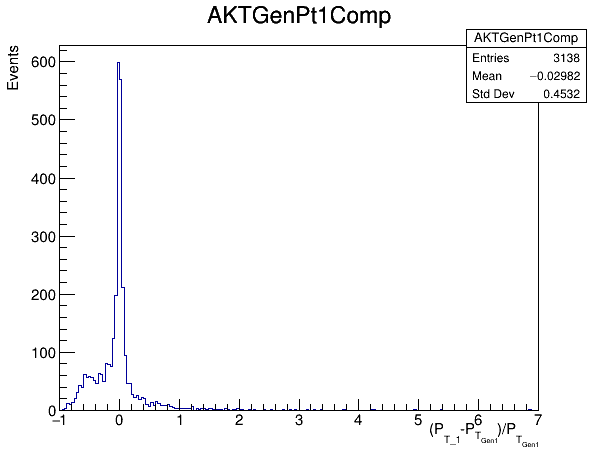
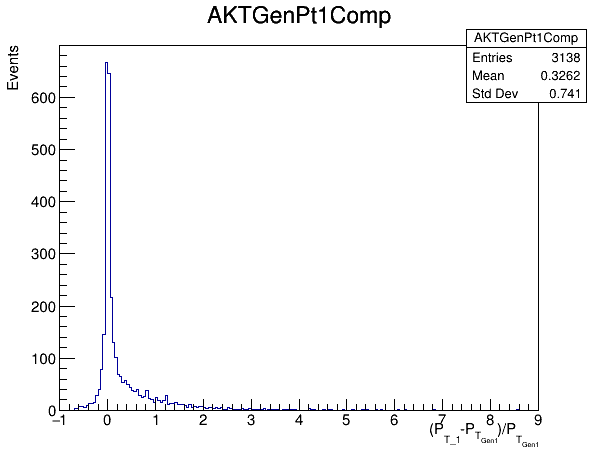
Updaye relosution info

diff --git a/Delphes/src/PairingDiHiggs.C b/Delphes/src/PairingDiHiggs.C
@@ -49,17 +49,17 @@ void PairingDiHiggs(const char *inputFile, const char *outputFile){
 
      Int_t nEntries = tree_sig->GetEntries();
 
-     TH1D *AKTjetMass1 = new TH1D("AKTjetMass1", "Anti_KTjet leading jets pair invariant mass", 200 , 0, 600); 
-     TH1D *AKTjetMass2 = new TH1D("AKTjetMass2", "Anti_KTjet sub-leading jets pair invariant mass", 200 , 0, 600); 
+     TH1D *AKTjetMass1 = new TH1D("AKTjetMass1", "Anti_KTjet leading jets pair invariant mass", 150 , 0, 400); 
+     TH1D *AKTjetMass2 = new TH1D("AKTjetMass2", "Anti_KTjet sub-leading jets pair invariant mass", 150 , 0, 400); 
      TH1D *GenAKTMass2 = new TH1D("GenAKTMass2", "GenAKTMass2", 100 , 0, 600); 
      TH1D *AKTGenMass1Comp = new TH1D("AKTGenMass1Comp", "AKTGenMass1Comp", 200 , -1, 2); 
      TH1D *AKTGenMass2Comp = new TH1D("AKTGenMass2Comp", "AKTGenMass2Comp", 200 , -1, 2); 
      TH1D *GenUncutMass2 = new TH1D("GenUncutMass2", "GenUncutMass2", 100 , 0, 600); 
  
-     TH1D *AKTGenPt1Comp = new TH1D("AKTGenPt1Comp", "AKTGenPt1Comp", 200 , -1, 7); 
-     TH1D *AKTGenPt2Comp = new TH1D("AKTGenPt2Comp", "AKTGenPt2Comp", 200 , -1, 2); 
-     TH1D *AKTGenPt3Comp = new TH1D("AKTGenPt3Comp", "AKTGenPt3Comp", 200 , -1, 16); 
-     TH1D *AKTGenPt4Comp = new TH1D("AKTGenPt4Comp", "AKTGenPt4Comp", 200 , -1, 17); 
+     TH1D *AKTGenPt1Comp = new TH1D("AKTGenPt1Comp", "AKTGenPt1Comp", 200 , -1, 9); 
+     TH1D *AKTGenPt2Comp = new TH1D("AKTGenPt2Comp", "AKTGenPt2Comp", 200 , -1, 9); 
+     TH1D *AKTGenPt3Comp = new TH1D("AKTGenPt3Comp", "AKTGenPt3Comp", 200 , -1, 9); 
+     TH1D *AKTGenPt4Comp = new TH1D("AKTGenPt4Comp", "AKTGenPt4Comp", 200 , -1, 2); 
 
      Double_t AKTjet1eta1;
      Double_t AKTjet1phi1;
@@ -374,23 +374,38 @@ void PairingDiHiggs(const char *inputFile, const char *outputFile){
 	     Genh2=GenJet3+GenJet4;
 	     GenJetMass = Genh2.Mag();
              Double_t AKTGenMass2diff = (AKTjetpair2Mass - GenJetMass)/GenJetMass;
-
-	     Double_t AKTGenPt1diff = (AKTjet1pt1 - Gen1pt)/Gen1pt;
-	     Double_t AKTGenPt2diff = (AKTjet1pt2 - Gen2pt)/Gen2pt;
-	     Double_t AKTGenPt3diff = (AKTjet2pt1 - Gen3pt)/Gen3pt;
-	     Double_t AKTGenPt4diff = (AKTjet2pt2 - Gen4pt)/Gen4pt;
+             
+	     Double_t AKTpt[] = { AKTjet1pt1, AKTjet1pt2, AKTjet2pt1, AKTjet2pt2 };
+	     int AKTsize = sizeof(AKTpt) / sizeof(AKTpt[0]);
+             
+	     Double_t Genpt[] = { Gen1pt, Gen2pt, Gen3pt, Gen4pt };
+	     int Gensize = sizeof(Genpt) / sizeof(Genpt[0]);
+              
+	     for (int i=0; i<4; i++) {
+	         for (int j=i+1; j<4; j++) {
+		     if (AKTpt[j] > AKTpt[i]) {
+                         swap(AKTpt[j], AKTpt[i]);
+			 swap(Genpt[j], Genpt[i]);
+		     }
+		 }
+	     }
+	     Double_t AKTGenPt1diff = (AKTpt[0] - Genpt[0])/Genpt[0];
+	     Double_t AKTGenPt2diff = (AKTpt[1] - Genpt[1])/Genpt[1];
+	     Double_t AKTGenPt3diff = (AKTpt[2] - Genpt[2])/Genpt[2];
+	     Double_t AKTGenPt4diff = (AKTpt[3] - Genpt[3])/Genpt[3];
 
              if (AKT1jet1flag==true and AKT1jet2flag==true and AKT2jet1flag==true and AKT2jet2flag==true){
-	         
-		 AKTjetMass1->Fill(AKTjetpair1Mass);
-                 AKTjetMass2->Fill(AKTjetpair2Mass);
-		 //GenAKTMass2->Fill(GenJetMass);
-	         AKTGenMass1Comp->Fill(AKTGenMass1diff);
-	         AKTGenMass2Comp->Fill(AKTGenMass2diff);
-		 AKTGenPt1Comp->Fill(AKTGenPt1diff);
+	         AKTGenPt1Comp->Fill(AKTGenPt1diff);
 		 AKTGenPt2Comp->Fill(AKTGenPt2diff);
 		 AKTGenPt3Comp->Fill(AKTGenPt3diff);
 		 AKTGenPt4Comp->Fill(AKTGenPt4diff);
+	         if (abs(AKTGenPt1diff)<0.15 and abs(AKTGenPt2diff)<0.15 and abs(AKTGenPt3diff)<0.15 and abs(AKTGenPt4diff)<0.15) { 
+		     AKTjetMass1->Fill(AKTjetpair1Mass);
+                     AKTjetMass2->Fill(AKTjetpair2Mass);
+		     //GenAKTMass2->Fill(GenJetMass);
+	             AKTGenMass1Comp->Fill(AKTGenMass1diff);
+	             AKTGenMass2Comp->Fill(AKTGenMass2diff);
+		 }
 	     } 
              //AKTjetMass1->Fill(AKTjetpair1Mass);
              //AKTjetMass2->Fill(AKTjetpair2Mass);
@@ -402,28 +417,28 @@ void PairingDiHiggs(const char *inputFile, const char *outputFile){
      TF1 *jetpair1fit = new TF1("jetpair1fit", "[0]*exp(-0.5*((x-[1])/[2])^2)+[3]*exp(-0.5*((x-[1])/[4])^2)",25,600);
      TF1 *jetpair2fit = new TF1("jetpair2fit", "[0]*exp(-0.5*((x-[1])/[2])^2)+[3]*exp(-0.5*((x-[1])/[4])^2)+expo(5)",25,600);
      TF1 *fSignal = new TF1("fSignal","gaus+gaus(3)",20,600);
-     TF1 *fBackground = new TF1("fBackground","expo", 20,600);
+     TF1 *fBackground = new TF1("fBackground","expo",20,600);
      TF1 *f1peak = new TF1("f1peak","gaus",20,600);
      TF1 *f2peak = new TF1("f2peak","gaus",20,600);
      Double_t param[8];
 
      jetpair2fit->SetParameters(200,120,10,20,10,2,-0.0001);
-     jetpair2fit->SetParLimits(0,80,200);
+     jetpair2fit->SetParLimits(0,30,100);
      jetpair2fit->SetParLimits(1,100,140);
-     jetpair2fit->SetParLimits(2,5,40);
-     jetpair2fit->SetParLimits(5,0,8);
+     jetpair2fit->SetParLimits(2,10,30);
+     jetpair2fit->SetParLimits(5,0,20);
      jetpair2fit->SetParLimits(6,-1,-0.0001);
      //jetpair2fit->SetParLimits(4,50,109);
-     jetpair2fit->SetParLimits(3,0,40);
-     jetpair2fit->SetParLimits(4,0,30);
+     jetpair2fit->SetParLimits(3,10,50);
+     jetpair2fit->SetParLimits(4,0,10);
      
      jetpair1fit->SetParameters(300,120,10,40,20);
-     jetpair1fit->SetParLimits(0,100,400);
+     jetpair1fit->SetParLimits(0,50,350);
      jetpair1fit->SetParLimits(1,100,140);
      jetpair1fit->SetParLimits(2,5,30);
      /*jetpair1fit->SetParLimits(6,0,8);
      jetpair1fit->SetParLimits(7,-1.5,-0.0001);*/
-     //jetpair1fit->SetParLimits(4,120,140);
+     jetpair1fit->SetParLimits(3,0,60);
      jetpair1fit->SetParLimits(4,5,40);
 
 
